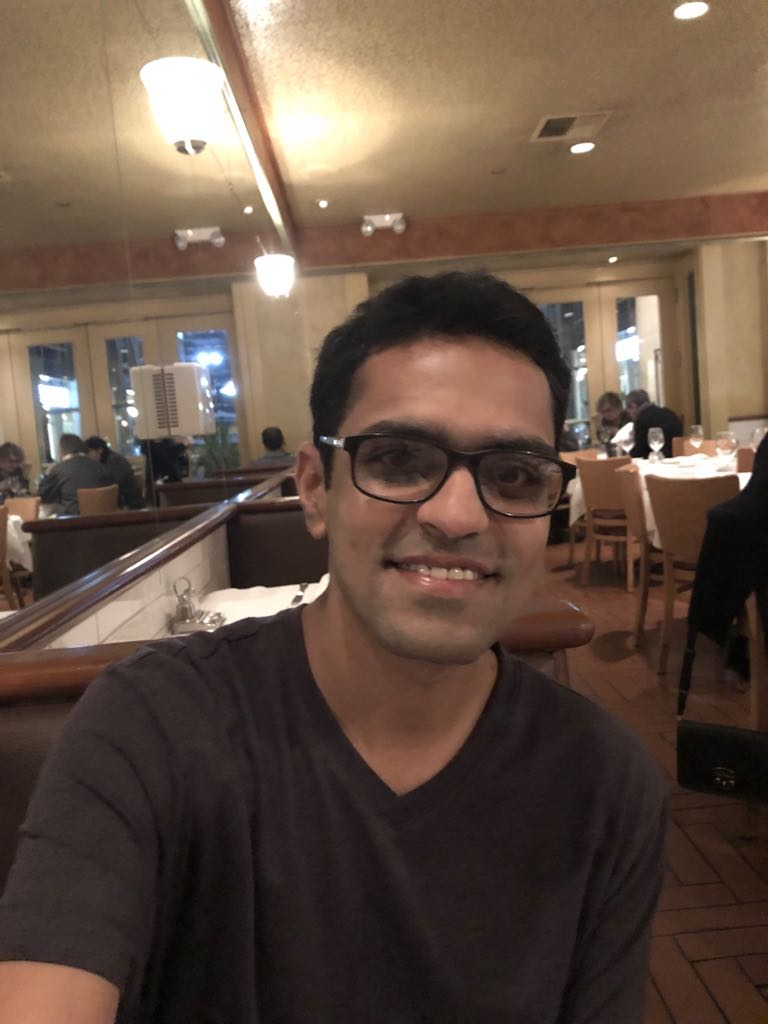
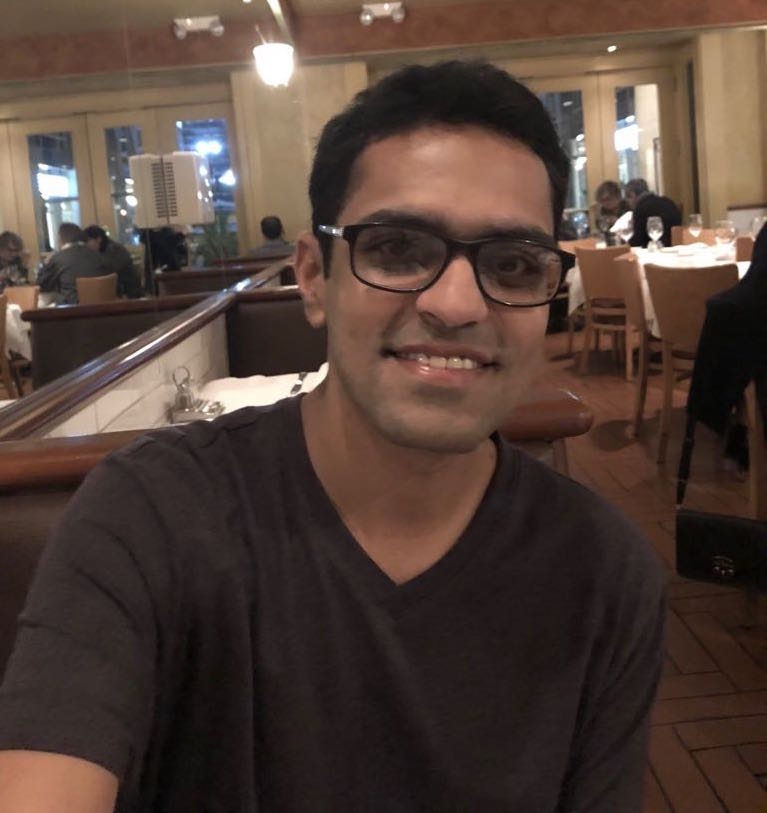
Add files via upload

diff --git a/index.html b/index.html
@@ -24,7 +24,7 @@
 <div id="subtitle"></div>
 </div>
 <table class="imgtable"><tr><td>
-<img src="Virag2.jpg" alt="alt text" width="182px" height="210px" />&nbsp;</td>
+<img src="Virag2.jpg" alt="alt text" width="150px" height=“160px" />&nbsp;</td>
 <td align="left"><p>Postdoctoral Scholar <br />
 <a href="https://msande.stanford.edu/">Management Science and Engg. Department</a> <br />
 <a href="http://www.stanford.edu/">Stanford University</a> <br />
